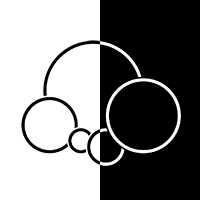
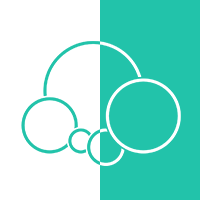
change color

diff --git a/css/index.css b/css/index.css
@@ -9,7 +9,7 @@
   font-family: 'Lato';
   font-style: normal;
   font-weight: 900;
-  src: local('Lato Black'), local('Lato-Black'), url('../../blog/font/lato900.woff') format('woff');
+  src: local('Lato #22c3aa'), local('Lato-#22c3aa'), url('../../blog/font/lato900.woff') format('woff');
 }
 
 html, body {
@@ -76,13 +76,13 @@ p {
 }
 
 .panel, .panel-left:hover + .panel-right {
-    background-color: black;
+    background-color: #22c3aa;
     color: white;
 }
 
 .panel-right, .panel:hover {
     background-color: white;
-    color: black;
+    color: #22c3aa;
 }
 
 .panel-right:hover + img#avatar {
@@ -112,16 +112,16 @@ p {
     height: 20px;
 }
 
-.link-panel a:hover {
-    text-decoration: underline;
-}
-
 .link-panel .link {
     margin-bottom: 5px;
 }
 
 .panel:hover .link-panel a {
-    color: black;
+    color: #22c3aa;
+}
+
+.panel:hover .link-panel a:hover {
+    color: #d0648a;
 }
 
 
